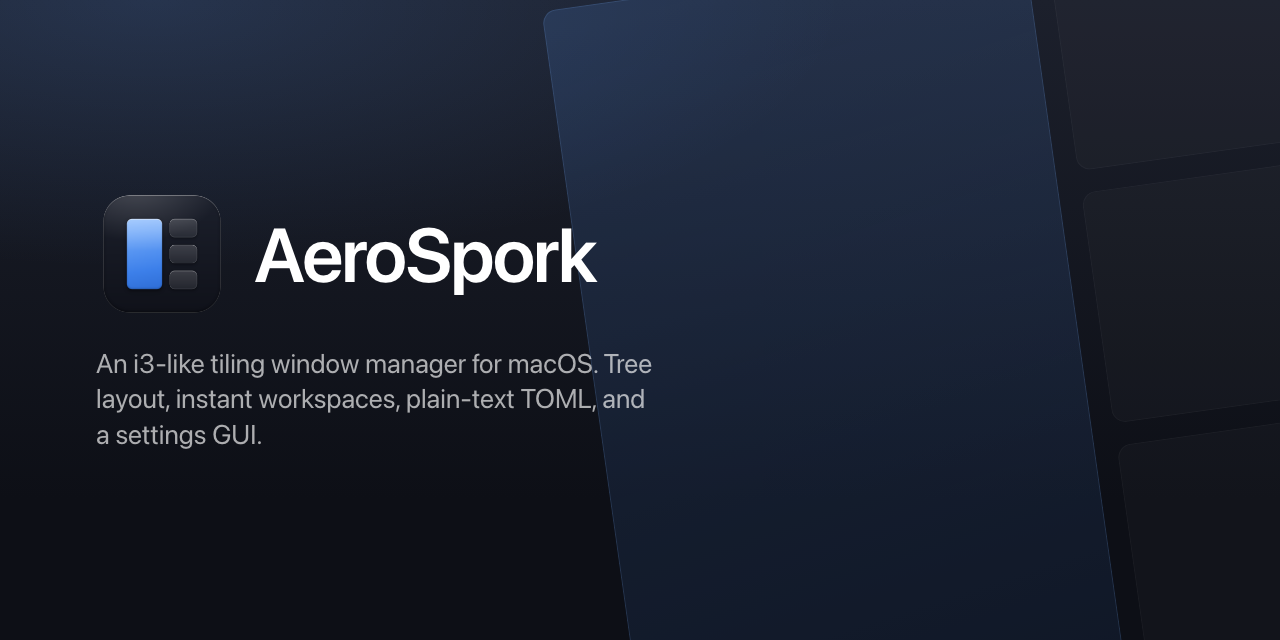
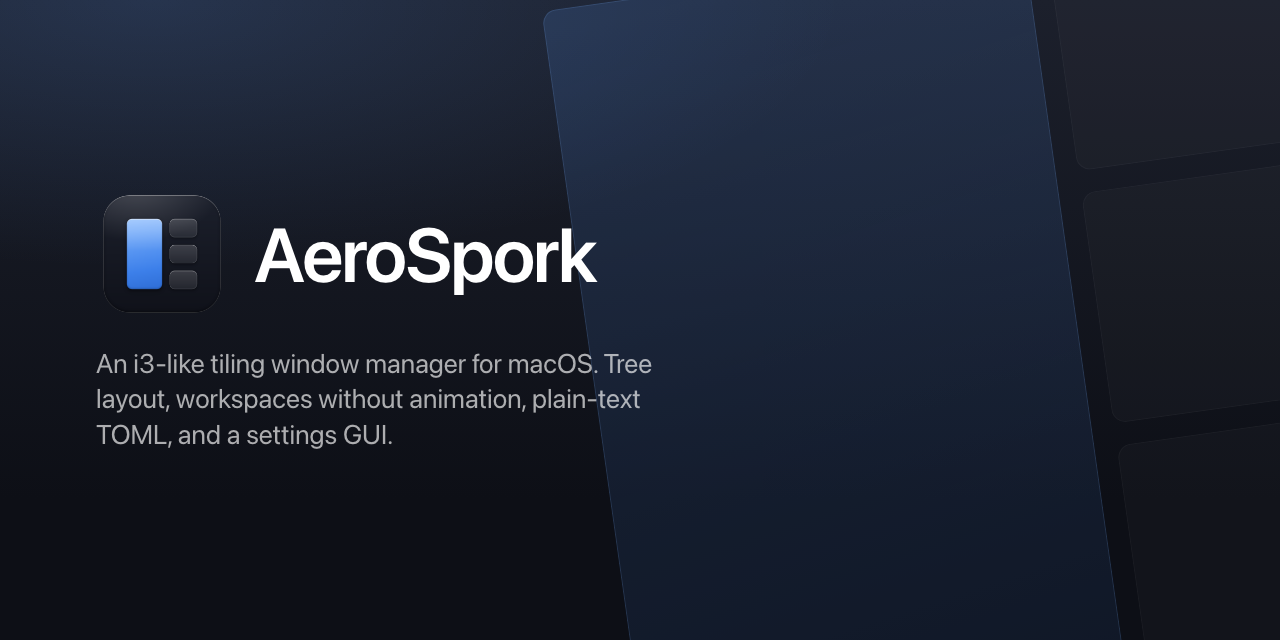
Fix factual defects in the README found by adversarial review
The worst of these was mine. The comparison table attributed two quotations to
upstream's README, "No GUI configuration" and "Not notarized", and neither
string appears in it. They were paraphrases I supplied as if they were quotes,
sitting inside the one paragraph whose job is to attest the column was checked.
Upstream actually says AeroSpace "will never provide a GUI for configuration"
and that "it's not notarized". Now quoted verbatim, with the date the check was
made.

Other false statements removed:

  * "The release zip works for anyone" -- the repository is private, so the
    download requires access exactly as the cask does.
  * "Building the release .app needs Xcode 26 or newer" -- nothing requires
    that. The substantiated floor is Swift 6.1 (Xcode 16.3), because
    Package.swift uses SE-0439 trailing commas.
  * A config path inside the bundle was described as meaning the config failed
    to parse. It also means no config exists, which the README describes 40
    lines earlier.
  * AEROSPORK_DEBUG_LOG was documented under a `log show` recipe. Those records
    are .debug level and the unified log does not persist them; the trace goes
    to stderr.
  * The dependency-removal list omitted swift-collections and was not anchored
    to a revision. legal/ has the full list.
  * "there is no reload command to remember" -- reload-config exists, is
    documented, and is bound in the shipped default config.
[…]

Changed region(s): [[0.0625, 0.5938, 0.5, 0.7188]]

diff --git a/Sources/Cli/subcommandDescriptionsGenerated.swift b/Sources/Cli/subcommandDescriptionsGenerated.swift
@@ -11,7 +11,7 @@ let subcommandDescriptions = [
     ["  flatten-workspace-tree", "Flatten the tree of the focused workspace"],
     ["  focus-back-and-forth", "Switch between the current and previously focused elements back and forth"],
     ["  focus-monitor", "Focus monitor by relative direction, by order, or by pattern"],
-    ["  focus", "Set focus to the nearest window in the given direction."],
+    ["  focus", "Set focus to the nearest window in the given direction"],
     ["  fullscreen", "Toggle the fullscreen mode for the focused window"],
     ["  join-with", "Put the focused window and the nearest node in the specified direction under a common parent container"],
     ["  layout", "Change layout of the focused window to the given layout"],
@@ -27,13 +27,13 @@ let subcommandDescriptions = [
     ["  move-mouse", "Move mouse to the requested position"],
     ["  move-node-to-monitor", "Move window to monitor targeted by relative direction, by order, or by pattern"],
     ["  move-node-to-workspace", "Move the focused window to the specified workspace"],
-    ["  move-workspace-to-monitor", "Move workspace to monitor targeted by relative direction, by order, or by pattern."],
+    ["  move-workspace-to-monitor", "Move workspace to monitor targeted by relative direction, by order, or by pattern"],
     ["  move", "Move the focused window in the given direction"],
     ["  open-settings", "Open the settings window"],
     ["  reload-config", "Reload currently active config"],
     ["  resize", "Resize the focused window"],
     ["  split", "Split focused window"],
-    ["  summon-workspace", "Move the requested workspace to the focused monitor."],
+    ["  summon-workspace", "Move the requested workspace to the focused monitor"],
     ["  trigger-binding", "Trigger AeroSpork binding as if it was pressed by user"],
     ["  volume", "Manipulate volume"],
     ["  workspace-back-and-forth", "Switch between the focused workspace and previously focused workspace back and forth"],

diff --git a/.claude/skills/aerospork-design/assets/icon/Banner.html b/.claude/skills/aerospork-design/assets/icon/Banner.html
@@ -26,7 +26,7 @@ body{margin:0;background:#0b0d13;display:flex;align-items:center;justify-content
   <div class="glow"></div>
   <div class="content">
     <div class="lockup"><img src="aerospork-icon-1024.png" alt="AeroSpork"><h1>AeroSpork</h1></div>
-    <p class="tag">An i3-like tiling window manager for macOS. Tree layout, instant workspaces, plain-text TOML, and a settings GUI.</p>
+    <p class="tag">An i3-like tiling window manager for macOS. Tree layout, workspaces without animation, plain-text TOML, and a settings GUI.</p>
   </div>
 </div>
 </body></html>

diff --git a/Sources/Common/versionGenerated.swift b/Sources/Common/versionGenerated.swift
@@ -1,2 +1,2 @@
 // FILE IS GENERATED BY generate.sh
-public let aeroSporkAppVersion = "1.0.1"
+public let aeroSporkAppVersion = "1.0.0"

diff --git a/README.md b/README.md
@@ -3,7 +3,6 @@
 <img src="docs/assets/readme-banner.png" alt="AeroSpork — an i3-like tiling window manager for macOS" width="820">
 
 <p>
-  <a href="https://github.com/wbsmolen/aerospork/actions/workflows/ci.yml"><img alt="CI" src="https://github.com/wbsmolen/aerospork/actions/workflows/ci.yml/badge.svg"></a>
   <img alt="macOS 13+" src="https://img.shields.io/badge/macOS-13%2B-000?logo=apple&logoColor=white">
   <img alt="Swift 6" src="https://img.shields.io/badge/Swift-6-F05138?logo=swift&logoColor=white">
   <a href="legal/LICENSE.txt"><img alt="MIT" src="https://img.shields.io/badge/license-MIT-blue"></a>
@@ -27,13 +26,13 @@ MIT licensed; see [`legal/`](legal/).
 
 On 2025-07-07 the author opened
 [nikitabobko/AeroSpace#1526](https://github.com/nikitabobko/AeroSpace/pull/1526) ("Major
-Enhancements"): 4,515 added lines across 41 files, proposing two things, hardware-based monitor
-fingerprinting for persistent workspace assignment and a set of performance optimisations. It was
-closed on 2025-07-08, the following day, with no review comment. Other users asked in the thread why
-and received no answer. AeroSpork is the fork that followed.
+Enhancements"): 4,515 added lines across 41 files, proposing two things: hardware-based monitor
+fingerprinting for persistent workspace assignment, and a set of performance optimizations. It was
+closed on 2025-07-08 with no review comment. AeroSpork is the fork that followed.
 
-Those two areas are still what the fork is for: monitor identity that holds up across USB docks and
-identical panels, and a configuration surface that does not require memorizing a schema.
+Monitor identity is still the fork's main concern: hardware matching that holds up across USB docks
+and identical panels. A configuration surface that does not require memorizing a schema came later,
+and the PR did not propose it.
 
 ## Tech stack
 
@@ -41,7 +40,7 @@ identical panels, and a configuration surface that does not require memorizing a
 |---|---|
 | Language | Swift, 6.0 language mode (`Package.swift`); `.swift-version` pins toolchain 6.4 |
 | Minimum OS | macOS 13.0 (Ventura) |
-| UI | SwiftUI: a `MenuBarExtra` and a `Settings` scene of seven tabs |
+| UI | SwiftUI: a `MenuBarExtra` and a `Settings` scene |
 | Third-party dependencies | TOMLKit, and nothing else |
 | CLI/app IPC | POSIX `AF_UNIX` stream socket, length-prefixed framing (`Sources/Common/util/UnixSocket.swift`) |
 | Global hotkeys | Carbon `RegisterEventHotKey` (`config/HotkeyBinding.swift`) |
@@ -50,7 +49,8 @@ identical panels, and a configuration surface that does not require memorizing a
 | Window IDs | C shim over the private `_AXUIElementGetWindow` (`Sources/PrivateApi/`) |
 | Build | SwiftPM for the CLI and debug builds; XcodeGen plus `xcodebuild` for the `.app`, since SwiftPM cannot produce a bundle |
 
-BlueSocket, HotKey, ISSoundAdditions and the ANTLR-generated shell grammar are gone.
+Relative to the fork point, BlueSocket, HotKey, ISSoundAdditions, swift-collections and the
+ANTLR-generated shell grammar are gone; see [`legal/`](legal/) for the full list.
 `exec-and-forget` hands its string to `/bin/bash -c`.
 
 ```
@@ -69,19 +69,19 @@ behave the same way. Only the deltas are listed.
 
 | | AeroSpace | AeroSpork |
 |---|:---:|:---:|
-| Monitor matching by hardware UUID / EDID | ❌ &nbsp;name, regex or index only | ✅ |
-| Pin a workspace to a specific DisplayLink panel | ❌ | ✅ |
-| Settings GUI | ❌ &nbsp;"No GUI configuration" | ✅ &nbsp;7 tabs |
-| Signed, notarized and stapled builds | ❌ &nbsp;"Not notarized" | ✅ |
+| Monitor matching by hardware UUID / EDID | ❌ &nbsp;name, regex or number only | ✅ &nbsp;also pins DisplayLink panels |
+| Settings GUI | ❌ &nbsp;"will never provide a GUI for configuration" | ✅ &nbsp;7 tabs |
+| Notarized builds | ❌ | ✅ &nbsp;signed, notarized, stapled |
 | Third-party dependencies | 4 | **1** |
 | Config schema | one syntax | v2 shorthand, older syntax still parses |
 | Command surface | **larger** | smaller |
 | Maturity | **public beta, larger community** | younger fork |
 
-<sub>Upstream column verified against
-<a href="https://github.com/nikitabobko/AeroSpace">nikitabobko/AeroSpace</a> <code>main</code>: its README
-lists "No GUI configuration" and "Not notarized" as limitations, its <code>Package.swift</code>
-declares 4 dependencies, and its guide documents monitor patterns as main/secondary/index/regex only.</sub>
+<sub>Upstream column checked against
+<a href="https://github.com/nikitabobko/AeroSpace">nikitabobko/AeroSpace</a> <code>main</code> on 2026-07-29: its README
+says AeroSpace "will never provide a GUI for configuration" and that "it's not notarized", its
+<code>Package.swift</code> declares four dependencies, and its guide documents monitor patterns as
+main/secondary/number/regex only.</sub>
 
 **Monitor identity.** A display is matched on, in order of reliability, the stable per-display UUID,
 then EDID vendor/model/serial read from CoreGraphics, then the localized name, then size. DisplayLink
@@ -127,8 +127,8 @@ Download the notarized universal (arm64 + x86_64) build from the
 brew install --cask wbsmolen/tap/aerospork
 ```
 
-Both repositories are private during early release, so `brew install` currently works only for
-accounts with access. The release zip works for anyone.
+Both repositories are private during early release, so the cask and the release download both
+require an account with access.
 
 ## Configuration
 
@@ -136,7 +136,7 @@ AeroSpork reads whichever of these exists, and reports an error at startup if bo
 `~/.aerospork.toml` or `${XDG_CONFIG_HOME}/aerospork/aerospork.toml` (`XDG_CONFIG_HOME` defaults to
 `~/.config`). With neither, it falls back to a complete default bundled in the app, also checked in
 as [`docs/config-examples/default-config.toml`](docs/config-examples/default-config.toml). Saved
-changes hot-reload; there is no reload command to remember.
+changes hot-reload, so you never need to run `reload-config` by hand.
 
 ```toml
 mod = "alt"                 # generates the i3 keymap: alt-h/j/k/l, alt-shift-h/j/k/l, ...
@@ -177,8 +177,9 @@ aerospork list-monitors                     # connected displays and how they ar
 aerospork --help
 ```
 
-Troubleshooting: `aerospork config --config-path` prints the file actually loaded (a path inside the
-`.app` bundle means your config failed to load and built-in defaults are in use),
+Troubleshooting: `aerospork config --config-path` prints the file actually loaded. A path inside the
+`.app` bundle means no user config is loaded, either because you have none or because yours failed to
+parse; `aerospork reload-config --dry-run` says which.
 `aerospork reload-config --dry-run` parses without applying and says why not, and `aerospork
 --version` reports both client and server. Logs go to the unified log, with no files and nothing to
 enable:
@@ -187,8 +188,9 @@ enable:
 log show --last 1h --predicate 'subsystem == "com.wbs.aerospork"' --style compact
 ```
 
-Use `com.wbs.aerospork.debug` for a debug build, add `AND category == "config"` to narrow, and set
-`AEROSPORK_DEBUG_LOG=1` for a verbose per-refresh trace. See *Troubleshooting and bug reports* in
+Use `com.wbs.aerospork.debug` for a debug build and add `AND category == "config"` to narrow.
+`AEROSPORK_DEBUG_LOG=1` adds a verbose per-refresh trace, which goes to stderr rather than the
+unified log, so run the binary directly to read it. See *Troubleshooting and bug reports* in
 [the guide](docs/guide.adoc) for what to attach to a report.
 
 ## Development
@@ -201,7 +203,8 @@ Use `com.wbs.aerospork.debug` for a debug build, add `AND category == "config"` 
 ```
 
 The suite is headless, using a fake window tree and a mocked Accessibility layer, so it needs no real
-windows and no Accessibility permission. Building the release `.app` needs Xcode 26 or newer.
+windows and no Accessibility permission. `Package.swift` uses SE-0439 trailing commas, so the floor is
+Swift 6.1 (Xcode 16.3); `.swift-version` pins 6.4 for reproducibility.
 
 [`.claude/skills/aerospork-design/`](.claude/skills/aerospork-design/) holds the design system:
 tokens, components, three click-through UI kits and the brand artwork. It is derived from
